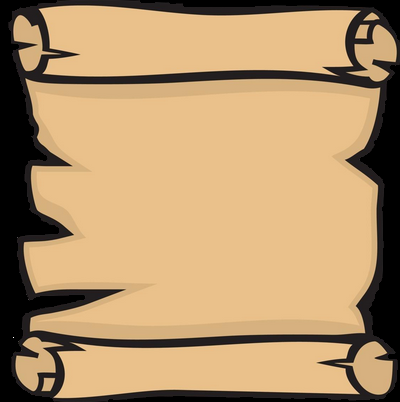
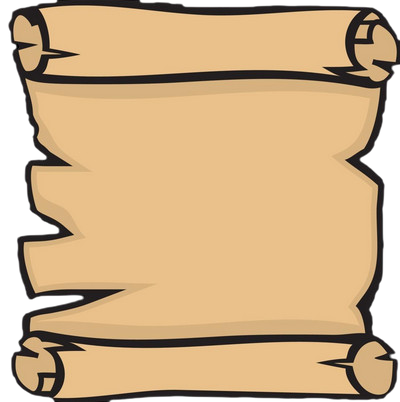
Alterei o design da tela de criação de personagem. Tirei o fundo preto.

Changed region(s): [[0.0, 0.0, 0.21, 1.0], [0.27, 0.1493, 1.0, 1.0], [0.33, 0.0, 1.0, 0.1194]]

diff --git a/src/main/java/livro/jogo/telas/desktop/TelaCriarPersonagem.java b/src/main/java/livro/jogo/telas/desktop/TelaCriarPersonagem.java
@@ -44,8 +44,7 @@ public class TelaCriarPersonagem extends TelaBasica {
         this.telaMae = telaMae;
         this.telaMae.setVisible(false); //Lembrar de enviar esta referência para a tela do início do jogo.
 
-        //Container tela = getContentPane();
-        //tela.setBackground(new Color(210,180,140));
+        getContentPane().setBackground(new Color(210,180,140));
 
         carregarComponentesDaTela();
     }
@@ -79,7 +78,7 @@ public class TelaCriarPersonagem extends TelaBasica {
     private void carregaEscolhasPersonagem() {
         JLabel labelEscolhaPersonagem = new JLabel("<html><center>Itens Iniciais<center></html>");
         labelEscolhaPersonagem.setFont(new Font(Font.SERIF,Font.BOLD,26));
-        labelEscolhaPersonagem.setForeground(new Color(150,69,19));
+        labelEscolhaPersonagem.setForeground(new Color(139,0,0));
         labelEscolhaPersonagem.setBounds(315, 380,730,70);
         labelEscolhaPersonagem.setHorizontalAlignment(SwingConstants.CENTER);
         //labelEscolhaPersonagem.setBorder(BorderFactory.createLineBorder(Color.BLUE));
@@ -134,7 +133,7 @@ public class TelaCriarPersonagem extends TelaBasica {
 
         JLabel labelEscolhaPocao = new JLabel("<html><center>Escolha uma Poção<center></html>");
         labelEscolhaPocao.setFont(new Font(Font.SERIF,Font.BOLD,23));
-        labelEscolhaPocao.setForeground(new Color(150,69,19));
+        labelEscolhaPocao.setForeground(new Color(139,0,0));
         labelEscolhaPocao.setBounds(120, 380,200,70);
         labelEscolhaPocao.setHorizontalAlignment(SwingConstants.CENTER);
         //labelEscolhaPocao.setBorder(BorderFactory.createLineBorder(Color.BLUE));
@@ -187,10 +186,10 @@ public class TelaCriarPersonagem extends TelaBasica {
     }
 
     private void carregarTxtNomeGenero() {
-        JLabel labelNome = new JLabel("Nome do Personagem");
+        JLabel labelNome = new JLabel("Nome");
         labelNome.setFont(new Font(Font.SERIF,Font.PLAIN,20));
         labelNome.setBounds(0, 280,1150,60);
-        labelNome.setForeground(Color.WHITE);
+        labelNome.setForeground(new Color(139,0,0));
         labelNome.setHorizontalAlignment(SwingConstants.CENTER);
 
         txtNome = new JTextField();
@@ -224,8 +223,8 @@ public class TelaCriarPersonagem extends TelaBasica {
         rbMasculino.setBounds(705,325, 120,20);
         rbMasculino.setFont(new Font(Font.SERIF,Font.BOLD,20));
         rbMasculino.setCursor(cursor);
-        rbMasculino.setBackground(Color.BLACK);
-        rbMasculino.setForeground(Color.WHITE);
+        rbMasculino.setBackground(new Color(210,180,140));
+        rbMasculino.setForeground(new Color(139,0,0));
         rbMasculino.setFocusable(false);
         rbMasculino.addActionListener(new ActionListener() {
             @Override
@@ -239,8 +238,8 @@ public class TelaCriarPersonagem extends TelaBasica {
         rbFeminino.setBounds(705,350, 120,20);
         rbFeminino.setCursor(cursor);
         rbFeminino.setFont(new Font(Font.SERIF,Font.BOLD,20));
-        rbFeminino.setBackground(Color.BLACK);
-        rbFeminino.setForeground(Color.WHITE);
+        rbFeminino.setBackground(new Color(210,180,140));
+        rbFeminino.setForeground(new Color(139,0,0));
         rbFeminino.setFocusable(false);
         rbFeminino.addActionListener(new ActionListener() {
             @Override
@@ -290,7 +289,7 @@ public class TelaCriarPersonagem extends TelaBasica {
         botaoRolarDadoHabilidade = new JButton("Rolar Dado");
         botaoRolarDadoHabilidade.setBackground(new Color(210,180,140));
         botaoRolarDadoHabilidade.setForeground(new Color(139,0,0));
-        botaoRolarDadoHabilidade.setFont(new Font(Font.SERIF,Font.PLAIN,20));
+        botaoRolarDadoHabilidade.setFont(new Font(Font.SERIF,Font.BOLD,20));
         botaoRolarDadoHabilidade.setBounds(138,200,120,40);
         botaoRolarDadoHabilidade.setFocusable(false);
         botaoRolarDadoHabilidade.setCursor(cursor);
@@ -341,7 +340,7 @@ public class TelaCriarPersonagem extends TelaBasica {
         botaoRolarDadosEnergia = new JButton("Rolar Dados");
         botaoRolarDadosEnergia.setBackground(new Color(210,180,140));
         botaoRolarDadosEnergia.setForeground(new Color(139,0,0));
-        botaoRolarDadosEnergia.setFont(new Font(Font.SERIF,Font.PLAIN,20));
+        botaoRolarDadosEnergia.setFont(new Font(Font.SERIF,Font.BOLD,20));
         botaoRolarDadosEnergia.setBounds(530,200,120,40);
         botaoRolarDadosEnergia.setFocusable(false);
         botaoRolarDadosEnergia.setCursor(cursor);
@@ -392,7 +391,7 @@ public class TelaCriarPersonagem extends TelaBasica {
         botaoRolarDadosSorte = new JButton("Rolar Dado");
         botaoRolarDadosSorte.setBackground(new Color(210,180,140));
         botaoRolarDadosSorte.setForeground(new Color(139,0,0));
-        botaoRolarDadosSorte.setFont(new Font(Font.SERIF,Font.PLAIN,20));
+        botaoRolarDadosSorte.setFont(new Font(Font.SERIF,Font.BOLD,20));
         botaoRolarDadosSorte.setBounds(915,200,120,40);
         botaoRolarDadosSorte.setFocusable(false);
         botaoRolarDadosSorte.setCursor(cursor);
@@ -414,10 +413,11 @@ public class TelaCriarPersonagem extends TelaBasica {
 
     private void carregarBotoesGravarResetarFechar() {
         botaoGravar = new JButton("Gerar Personagem");
-        botaoGravar.setBackground(Color.BLACK);
-        botaoGravar.setForeground(Color.WHITE);
-        botaoGravar.setFont(new Font(Font.SERIF,Font.PLAIN,20));
+        botaoGravar.setForeground(new Color(139,0,0));
+        botaoGravar. setBackground(new Color(210,180,140));
+        botaoGravar.setFont(new Font(Font.SERIF,Font.BOLD,20));
         botaoGravar.setBounds(130, 720,270,50);
+        botaoGravar.setBorder(BorderFactory.createLineBorder(new Color(128,0,0)));
         botaoGravar.setFocusable(false);
         botaoGravar.setEnabled(false);
         botaoGravar.setCursor(cursor);
@@ -425,11 +425,12 @@ public class TelaCriarPersonagem extends TelaBasica {
         add(botaoGravar);
 
         botaoResetar = new JButton("Refazer Personagem");
-        botaoResetar.setBackground(Color.BLACK);
-        botaoResetar.setForeground(Color.WHITE);
-        botaoResetar.setFont(new Font(Font.SERIF,Font.PLAIN,20));
+        botaoResetar.setForeground(new Color(139,0,0));
+        botaoResetar. setBackground(new Color(210,180,140));
+        botaoResetar.setFont(new Font(Font.SERIF,Font.BOLD,20));
         botaoResetar.setBounds(440, 720,270,50);
         botaoResetar.setFocusable(false);
+        botaoResetar.setBorder(BorderFactory.createLineBorder(new Color(128,0,0)));
         botaoResetar.setCursor(cursor);
         botaoResetar.addActionListener(e -> {
             resetarCriacaoPersonagem();
@@ -437,11 +438,12 @@ public class TelaCriarPersonagem extends TelaBasica {
         add(botaoResetar);
 
         JButton botaoFechar = new JButton("Sair");
-        botaoFechar.setBackground(Color.BLACK);
-        botaoFechar.setForeground(Color.WHITE);
-        botaoFechar.setFont(new Font(Font.SERIF,Font.PLAIN,20));
+        botaoFechar.setForeground(new Color(139,0,0));
+        botaoFechar. setBackground(new Color(210,180,140));
+        botaoFechar.setFont(new Font(Font.SERIF,Font.BOLD,20));
         botaoFechar.setBounds(750, 720,270,50);
         botaoFechar.setFocusable(false);
+        botaoFechar.setBorder(BorderFactory.createLineBorder(new Color(128,0,0)));
         botaoFechar.setCursor(cursor);
         botaoFechar.addActionListener(e -> {
             setVisible(false);

diff --git a/src/main/java/livro/jogo/telas/desktop/personalizados/TelaSecoesBasica.java b/src/main/java/livro/jogo/telas/desktop/personalizados/TelaSecoesBasica.java
@@ -3,6 +3,7 @@ package livro.jogo.telas.desktop.personalizados;
 import livro.jogo.entidades.Personagem;
 import livro.jogo.enums.ImagensDoLivroFlorestaDaDestruicao;
 import livro.jogo.entidades.Secao;
+import livro.jogo.telas.desktop.personalizados.util.RedimensionarImagem;
 import livro.jogo.utils.ManipularDadosLivro;
 
 import javax.imageio.ImageIO;
@@ -11,20 +12,17 @@ import javax.swing.text.SimpleAttributeSet;
 import javax.swing.text.StyleConstants;
 import javax.swing.text.StyledDocument;
 import java.awt.*;
-import java.awt.event.ActionEvent;
-import java.awt.event.ActionListener;
 import java.awt.event.MouseEvent;
 import java.awt.event.MouseListener;
-import java.awt.image.BufferedImage;
-import java.io.File;
-import java.io.IOException;
 
 public class TelaSecoesBasica extends TelaBasica{
     private final Secao secao;
     private final Personagem personagem;
+    private final TelaSecoesBasicaAcaoDosLabels acaoLabels = new TelaSecoesBasicaAcaoDosLabels();
     private String enderecoImagem = ManipularDadosLivro.getLivro().getImagemComplementar();
 
-    private JLabelOpcoesTelaSecao botaoMapa;
+    private JLabelOpcoesTelaSecao labelMapa;
+    private JLabelOpcoesTelaSecao labelBolsa;
 
 
     public TelaSecoesBasica(Secao secao, Personagem personagem) {
@@ -128,33 +126,21 @@ public class TelaSecoesBasica extends TelaBasica{
         else
             enderecoImgPersonagem = ImagensDoLivroFlorestaDaDestruicao.BARBARA.getEnderecoImagem();
         ImagePanel imgPersonagem = new ImagePanel(enderecoImgPersonagem);
+        //imgPersonagem.setBorder(BorderFactory.createLineBorder(Color.RED));
+
 
         //Bolsa
-        JButton botaoBolsa = new JButton("bolsa");
-        botaoBolsa.setBounds(940,550,130,130);
-        try { //Imagem da seção no label redimensionada, pois existem imagens maiores que a dimensão do label
-            BufferedImage img = ImageIO.read(new File(ImagensDoLivroFlorestaDaDestruicao.BOLSA.getEnderecoImagem()));
-            Image imgDimensionada = img.getScaledInstance(botaoBolsa.getWidth(), botaoBolsa.getHeight(), Image.SCALE_SMOOTH);
-            botaoBolsa.setIcon(new ImageIcon(imgDimensionada));
-            botaoBolsa.setCursor(new Cursor(Cursor.HAND_CURSOR));
-            botaoBolsa.setBackground(new Color(210,180,140));
-            botaoBolsa.setHorizontalAlignment(SwingConstants.CENTER);
-            botaoBolsa.setBorder(null);
-            botaoBolsa.setToolTipText("Acesse aqui sua mochila.");
-            //botaoBolsa.setBorder(BorderFactory.createLineBorder(Color.RED));
-            botaoBolsa.addActionListener(new ActionListener() {
-                @Override
-                public void actionPerformed(ActionEvent e) {
-                    JOptionPane.showMessageDialog(null,"BOLSA");
-                }
-            });
-        } catch (IOException e) {
-            throw new RuntimeException(e);
-        }
+        labelBolsa = new JLabelOpcoesTelaSecao(null,ImagensDoLivroFlorestaDaDestruicao.BOLSA);
+        labelBolsa.setToolTipText("Acesse aqui sua mochila.");
+        labelBolsa.addMouseListener(acaoLabels);
+        //labelBolsa.setBorder(BorderFactory.createLineBorder(Color.RED));
+        labelBolsa.setBounds(930,550,150,140);
+        labelBolsa.setIcon(new RedimensionarImagem(ImagensDoLivroFlorestaDaDestruicao.BOLSA.getEnderecoImagem(),
+                labelBolsa.getWidth(), labelBolsa.getHeight()).getImageIcon());
+
 
         //Posiciona
-        //botaoBolsa.setBounds(920,550,120,120);
-        imgPersonagem.setBounds(1050,500,200,250);
+        imgPersonagem.setBounds(1080,500,205,260);
         lbSortePersonagem.setBounds(920,510,300,50);
         lbEnergiaPersonagem.setBounds(920,480,300,50);
         lbHabilidadePersonagem.setBounds(920,450,300,50);
@@ -166,7 +152,7 @@ public class TelaSecoesBasica extends TelaBasica{
         add(lbEnergiaPersonagem);
         add(lbHabilidadePersonagem);
         add(lbNomePersonagem);
-        add(botaoBolsa);
+        add(labelBolsa);
         add(imgPersonagem);
         add(painelPersonagem);
     }
@@ -181,14 +167,8 @@ public class TelaSecoesBasica extends TelaBasica{
         //posicionamento
         imgMolduraParaImgSecao.setBounds(875,2,340,375);
         labelImagemSecao.setBounds(915, 45, 261, 289);
-        try { //Imagem da seção no label redimensionada, pois existem imagens maiores que a dimensão do label
-            BufferedImage img = ImageIO.read(new File(enderecoImagem));
-            Image imgDimensionada = img.getScaledInstance(labelImagemSecao.getWidth(), labelImagemSecao.getHeight(), Image.SCALE_SMOOTH);
-            ImageIcon imageSecao = new ImageIcon(imgDimensionada);
-            labelImagemSecao.setIcon(imageSecao);
-        } catch (IOException e) {
-            throw new RuntimeException(e);
-        }
+        labelImagemSecao.setIcon(new RedimensionarImagem(enderecoImagem, labelImagemSecao.getWidth(),
+                labelImagemSecao.getHeight()).getImageIcon());
 
         add(labelImagemSecao);
         add(imgMolduraParaImgSecao);
@@ -202,20 +182,19 @@ public class TelaSecoesBasica extends TelaBasica{
 
     private void carregarPainelDireito() {
         ImagePanel imgPainelDireito = new ImagePanel(ImagensDoLivroFlorestaDaDestruicao.PERGAMINHO_FAIXA);
-        TelaSecoesBasicaAcaoDosLabels acaoLabels = new TelaSecoesBasicaAcaoDosLabels();
+
 
         //Configura botaoMapa
-        botaoMapa = new JLabelOpcoesTelaSecao("Mapa",ImagensDoLivroFlorestaDaDestruicao.BUSSOLA);
-        //botaoMapa.addActionListener(acaoBotao);
-        botaoMapa.addMouseListener(acaoLabels);
-        botaoMapa.setBounds(1250,50,150,100);
-        botaoMapa.setToolTipText("Acesso ao mapa.");
+        labelMapa = new JLabelOpcoesTelaSecao("Mapa",ImagensDoLivroFlorestaDaDestruicao.BUSSOLA);
+        labelMapa.addMouseListener(acaoLabels);
+        labelMapa.setToolTipText("Acesso ao mapa.");
 
         //Posicionamento
         imgPainelDireito.setBounds(1200,2,280,770);
+        labelMapa.setBounds(1250,50,150,100);
 
         //Adiciona a tela
-        add(botaoMapa);
+        add(labelMapa);
         add(imgPainelDireito);
     }
 
@@ -223,8 +202,12 @@ public class TelaSecoesBasica extends TelaBasica{
 
         @Override
         public void mouseClicked(MouseEvent e) {
-            if (e.getSource() == botaoMapa){
+            if (e.getSource() == labelMapa){
                 JOptionPane.showMessageDialog(null,"Clicado no Mapa");
+            }
+
+            if (e.getSource() == labelBolsa){
+                JOptionPane.showMessageDialog(null,"Clicado na Bolsa");
             }
         }
 

diff --git a/src/main/java/livro/jogo/telas/desktop/personalizados/TelaBasica.java b/src/main/java/livro/jogo/telas/desktop/personalizados/TelaBasica.java
@@ -2,9 +2,14 @@ package livro.jogo.telas.desktop.personalizados;
 
 
 import livro.jogo.enums.ImagensDoLivroFlorestaDaDestruicao;
+import livro.jogo.utils.ManipularDadosLivro;
 
+import javax.imageio.ImageIO;
 import javax.swing.*;
 import java.awt.*;
+import java.awt.image.BufferedImage;
+import java.io.File;
+import java.io.IOException;
 
 
 public class TelaBasica extends JFrame {
@@ -16,6 +21,18 @@ public class TelaBasica extends JFrame {
         principal.setBackground(Color.BLACK);
         setSize(largura,altura);
         setLocationRelativeTo(null);
+        carregarIconTela();
+
+    }
+
+    private void carregarIconTela(){
+        BufferedImage img;
+        try {
+            img = ImageIO.read(new File(ManipularDadosLivro.getLivro().getImagemCapa()));
+            setIconImage(img);
+        } catch (IOException e) {
+            throw new RuntimeException(e);
+        }
     }
 
 

diff --git a/src/main/java/livro/jogo/telas/desktop/personalizados/util/RedimensionarImagem.java b/src/main/java/livro/jogo/telas/desktop/personalizados/util/RedimensionarImagem.java
@@ -1,0 +1,26 @@
+package livro.jogo.telas.desktop.personalizados.util;
+
+import javax.imageio.ImageIO;
+import javax.swing.*;
+import java.awt.*;
+import java.awt.image.BufferedImage;
+import java.io.File;
+import java.io.IOException;
+
+public class RedimensionarImagem {
+    private ImageIcon imageIcon;
+
+    public RedimensionarImagem(String enderecoImagem, int largura, int altura) {
+        try { //Imagem da seção no label redimensionada, pois existem imagens maiores que a dimensão do label
+            BufferedImage img = ImageIO.read(new File(enderecoImagem));
+            Image imgDimensionada = img.getScaledInstance(largura, altura, Image.SCALE_SMOOTH);
+            this.imageIcon = new ImageIcon(imgDimensionada);
+        } catch (IOException e) {
+            throw new RuntimeException(e);
+        }
+    }
+
+    public Icon getImageIcon() {
+        return imageIcon;
+    }
+}

diff --git a/src/main/java/livro/jogo/telas/desktop/TelaPrincipal.java b/src/main/java/livro/jogo/telas/desktop/TelaPrincipal.java
@@ -34,18 +34,7 @@ public class TelaPrincipal extends TelaBasica {
         //Dados do livro
         livro = ManipularDadosLivro.getLivro();
         setTitle(livro.getNome());
-        carregarIconTela();
         configurandoTelaPrincipal();
-    }
-
-    private void carregarIconTela(){
-        BufferedImage img;
-        try {
-            img = ImageIO.read(new File(livro.getImagemCapa()));
-            setIconImage(img);
-        } catch (IOException e) {
-            throw new RuntimeException(e);
-        }
     }
 
     private void configurandoTelaPrincipal(){

diff --git a/src/main/java/livro/jogo/executaveis/Testes.java b/src/main/java/livro/jogo/executaveis/Testes.java
@@ -18,7 +18,7 @@ public class Testes {
         livroFlorestaDaDestruicao.carregarLivroFlorestaDestruicao();
         Personagem personagem = new Personagem("Fábio",1,10,20,10,
                 null,null,2);
-        TelaSecoesBasica telaSecoesBasica = new TelaSecoesBasica( ManipularDadosLivro.getMapSecao().get(90),personagem );
+        TelaSecoesBasica telaSecoesBasica = new TelaSecoesBasica( ManipularDadosLivro.getMapSecao().get(2),personagem );
         telaSecoesBasica.setVisible(true);
 
         //Não copiar quando finalizar
